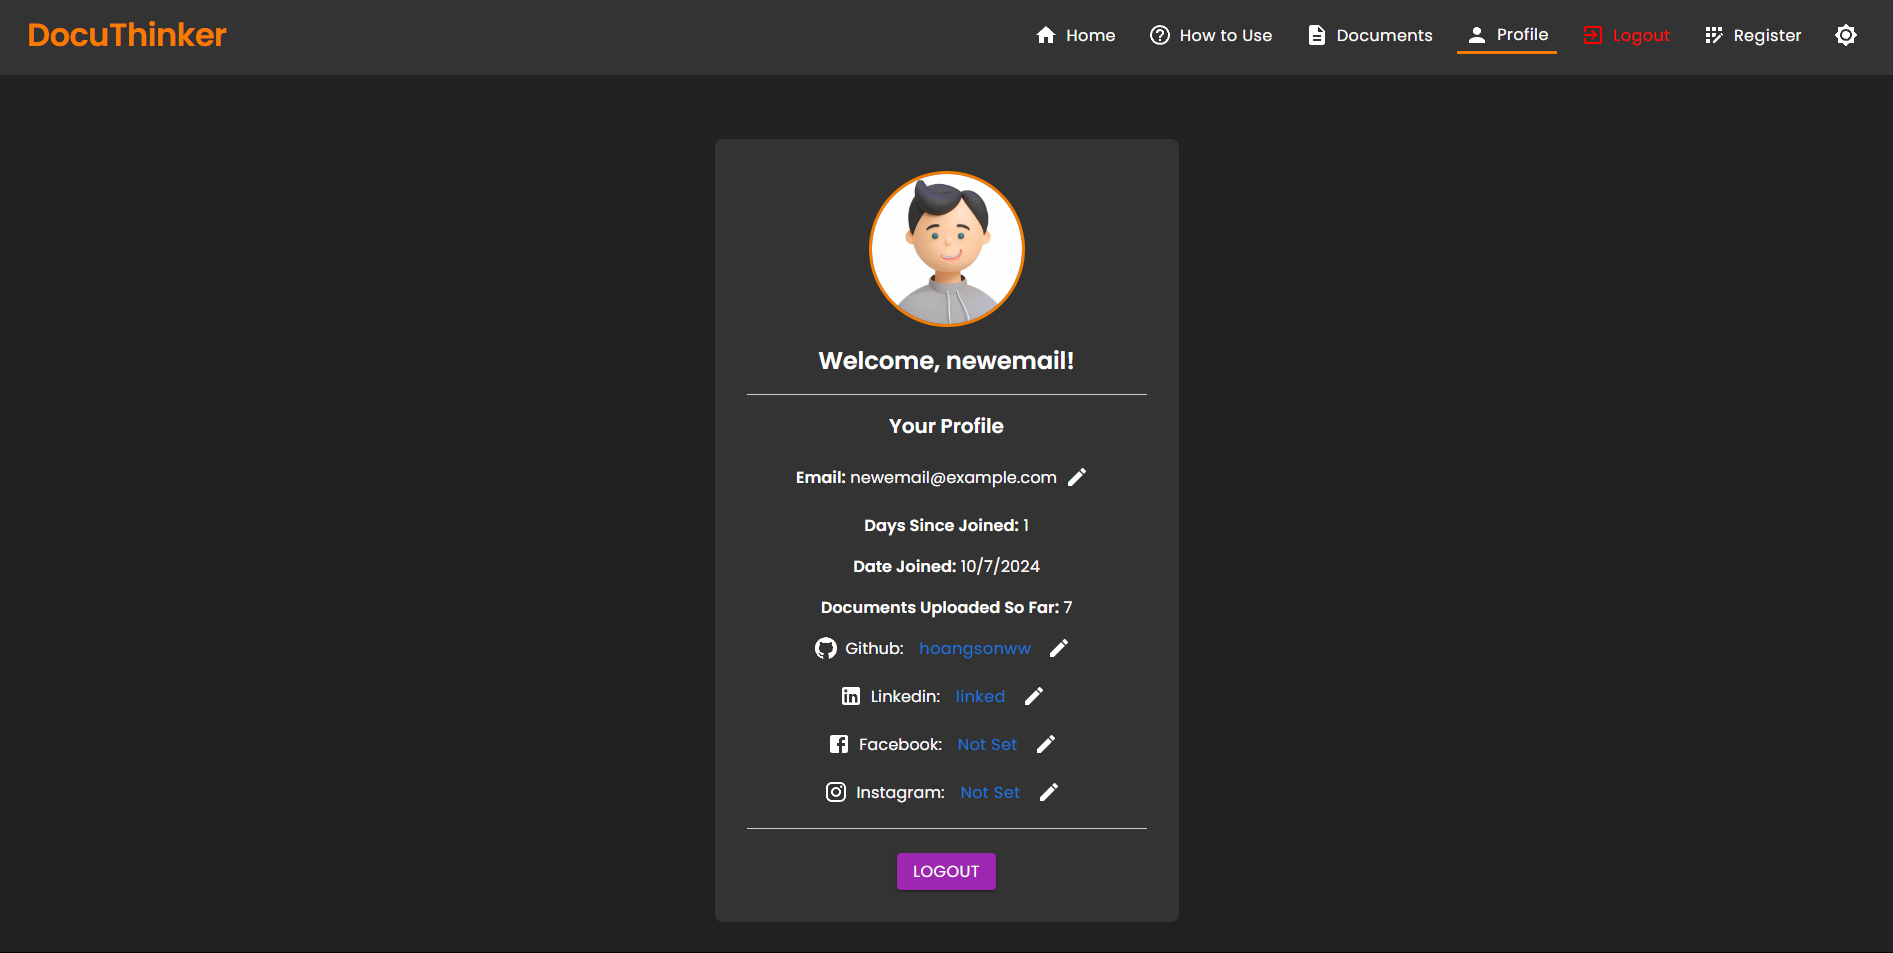
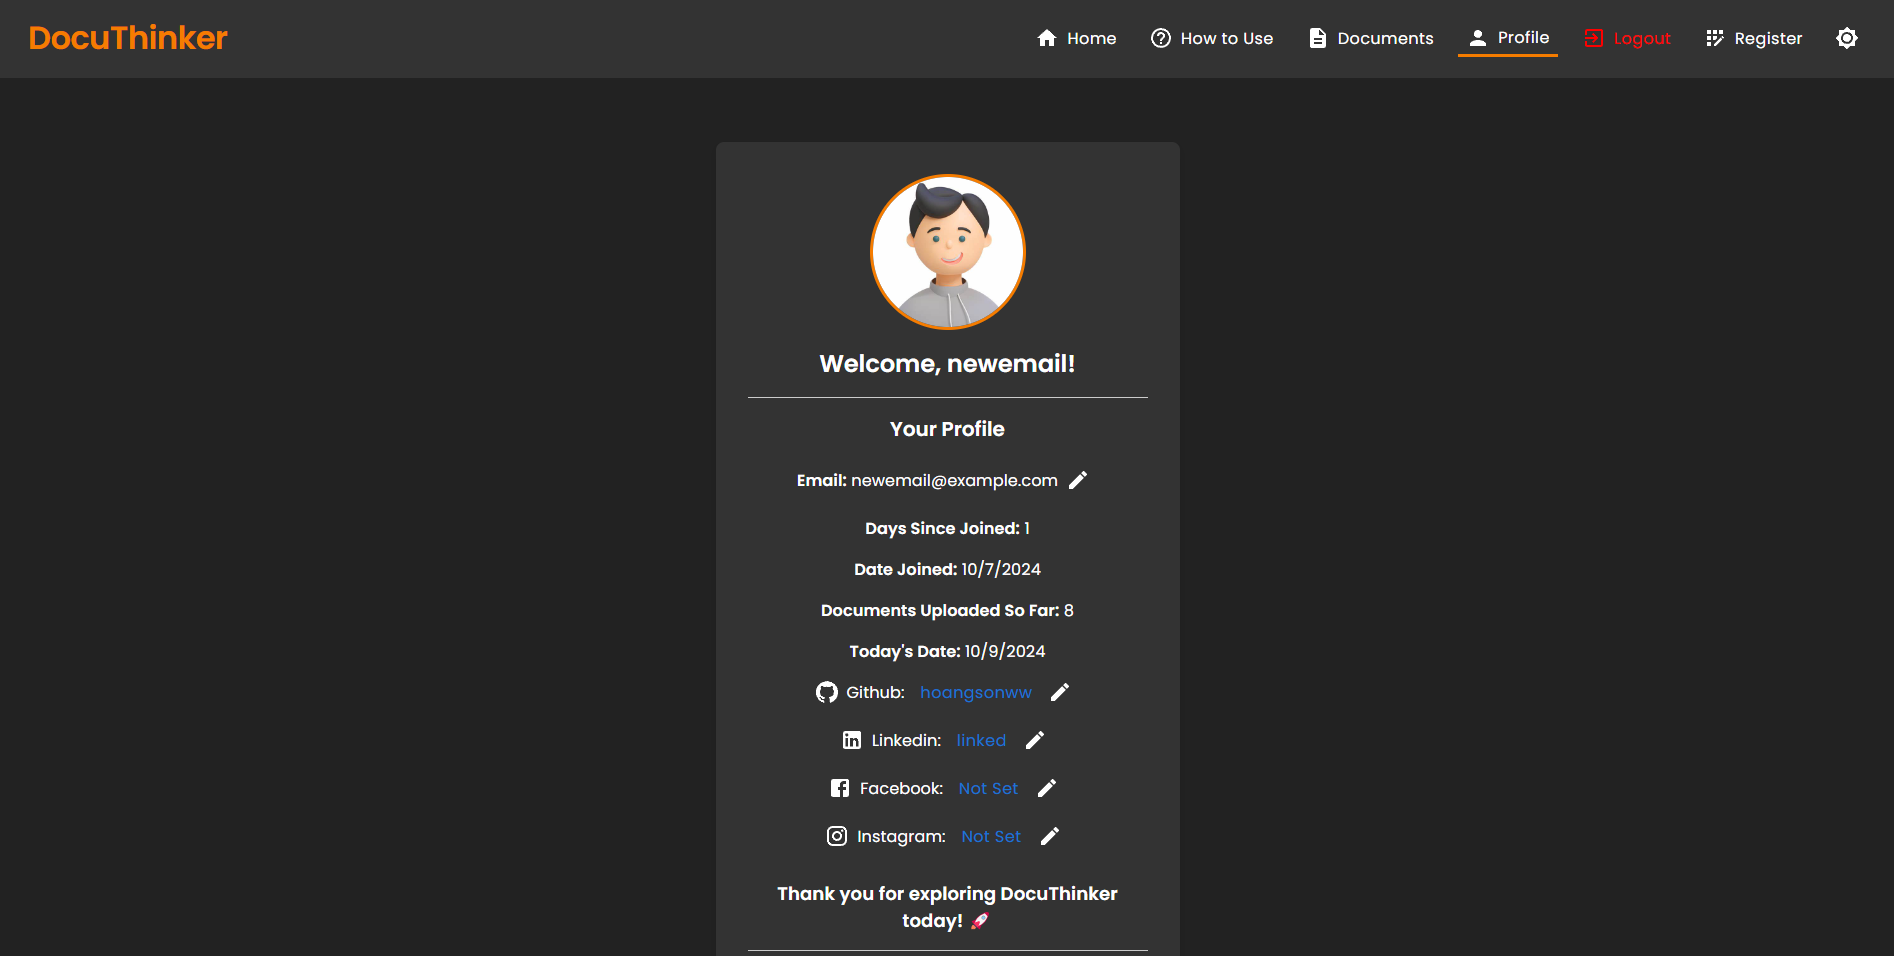
Final: App Working & React FE Done

diff --git a/frontend/src/pages/HowToUse.js b/frontend/src/pages/HowToUse.js
@@ -40,7 +40,8 @@ const HowToUse = ({ theme }) => {
               lineHeight: '1.6',
             }}
         >
-          Welcome to <strong>DocuThinker</strong>, your AI-powered document summarization tool. Follow the steps below to
+          Welcome to <strong>DocuThinker</strong>, your AI-powered document summarization tool. Follow the steps below
+          to
           upload documents and make the most out of our key features like summarization, generating key ideas, and
           discussion points from your uploaded documents.
         </Typography>
@@ -59,7 +60,7 @@ const HowToUse = ({ theme }) => {
           Steps to Get Started
         </Typography>
 
-        <List sx={{ listStyleType: 'none', paddingLeft: 0 }}>
+        <List sx={{listStyleType: 'none', paddingLeft: 0}}>
           <ListItem>
             <ListItemText
                 disableTypography
@@ -83,7 +84,8 @@ const HowToUse = ({ theme }) => {
                         color: theme === 'dark' ? 'white' : '#333',
                       }}
                   >
-                    Click the upload box on the home page to drag and drop your document or select one from your device. We
+                    Click the upload box on the home page to drag and drop your document or select one from your device.
+                    We
                     support both PDF and DOCX formats.
                   </Typography>
                 }
@@ -113,7 +115,8 @@ const HowToUse = ({ theme }) => {
                         color: theme === 'dark' ? 'white' : '#333',
                       }}
                   >
-                    Once uploaded, the app will automatically summarize your document. You'll see the full original document
+                    Once uploaded, the app will automatically summarize your document. You'll see the full original
+                    document
                     text on the left and a concise summary on the right.
                   </Typography>
                 }
@@ -203,8 +206,42 @@ const HowToUse = ({ theme }) => {
                         color: theme === 'dark' ? 'white' : '#333',
                       }}
                   >
-                    Use the 'Chat with AI' feature to ask specific questions or get more information based on the document.
+                    Use the 'Chat with AI' feature to ask specific questions or get more information based on the
+                    document.
                     Our AI models, trained by DocuThinker, will use the document context to provide tailored answers.
+                  </Typography>
+                }
+            />
+          </ListItem>
+
+          <ListItem>
+            <ListItemText
+                disableTypography
+                primary={
+                  <Typography
+                      sx={{
+                        fontFamily: 'Poppins, sans-serif',
+                        fontWeight: 'bold',
+                        fontSize: '1.1rem',
+                        color: theme === 'dark' ? 'white' : 'black',
+                      }}
+                  >
+                    6. Create an Account to Save Uploaded Documents
+                  </Typography>
+                }
+                secondary={
+                  <Typography
+                      sx={{
+                        fontFamily: 'Poppins, sans-serif',
+                        fontSize: '1rem',
+                        color: theme === 'dark' ? 'white' : '#333',
+                      }}
+                  >
+                    You can also create an account to save your uploaded documents and access them later. This feature
+                    allows
+                    you to view, download, or delete your documents as needed and gives you a higher upload limit.
+                    Visit the <strong>Register</strong> page to create an account and then log in to access your saved
+                    documents.
                   </Typography>
                 }
             />
@@ -236,7 +273,7 @@ const HowToUse = ({ theme }) => {
             }}
         >
           DocuThinker currently supports:
-          <ul style={{ paddingLeft: '20px', marginTop: '8px', font: 'inherit' }}>
+          <ul style={{paddingLeft: '20px', marginTop: '8px', font: 'inherit'}}>
             <li>PDF files</li>
             <li>DOCX (Word) files</li>
           </ul>
@@ -254,8 +291,16 @@ const HowToUse = ({ theme }) => {
             }}
         >
           DocuThinker helps you save time by summarizing long documents, extracting key ideas, and preparing discussion
-          points for further exploration. Make sure to utilize the AI chat feature to dive deeper into any aspect of your
+          points for further exploration. Make sure to utilize the AI chat feature to dive deeper into any aspect of
+          your
           document!
+        </Typography>
+
+        <div style={{borderBottom: '1px solid #ccc', width: '100%', marginBottom: '1rem', marginTop: '1rem' }}></div>
+
+        {/* Thank you message */}
+        <Typography sx={{ mt: 3, font: 'inherit', fontWeight: 'bold', fontSize: '18px' }}>
+          Thank you for exploring DocuThinker today! 🚀
         </Typography>
       </Box>
   );

diff --git a/frontend/src/pages/Profile.js b/frontend/src/pages/Profile.js
@@ -32,6 +32,8 @@ const Profile = ({ theme }) => {
   const avatarUrl = '/OIP.jpg';
   const today = new Date().toLocaleDateString();
 
+  console.log(updatingSocialMedia);
+
   useEffect(() => {
     if (userId) {
       const fetchData = async () => {
@@ -263,7 +265,10 @@ const Profile = ({ theme }) => {
           <Typography sx={{ mb: 2, font: 'inherit', textAlign: 'center' }}><strong>Date Joined:</strong> {joinedDate}</Typography>
 
           {/* Display Document Count */}
-          <Typography sx={{ mb: 1, font: 'inherit', textAlign: 'center' }}><strong>Documents Uploaded So Far:</strong> {documentCount}</Typography>
+          <Typography sx={{ mb: 2, font: 'inherit', textAlign: 'center' }}><strong>Documents Uploaded So Far:</strong> {documentCount}</Typography>
+
+          {/* Display Today's Date */}
+          <Typography sx={{ mb: 1, font: 'inherit' }}><strong>Today's Date:</strong> {today}</Typography>
 
           {/* Social Media Fields */}
           {['github', 'linkedin', 'facebook', 'instagram'].map((platform) => (
@@ -299,6 +304,11 @@ const Profile = ({ theme }) => {
                 </IconButton>
               </Box>
           ))}
+
+          {/* Thank you message */}
+          <Typography sx={{ mt: 3, font: 'inherit', fontWeight: 'bold', fontSize: '18px' }}>
+            Thank you for exploring DocuThinker today! 🚀
+          </Typography>
 
           <div style={{ borderBottom: '1px solid #ccc', marginTop: '16px' }}></div>
 

diff --git a/README.md b/README.md
@@ -279,6 +279,8 @@ It is currently deployed live on **Vercel** and **Render**. You can access the l
 
 <h2 id="complete-file-structure">📂 Complete File Structure</h2>
 
+The **DocuThinker** app is organized into separate subdirectories for the frontend, backend, and mobile app. Each directory contains the necessary files and folders for the respective components of the app. Here is the complete file structure of the app:
+
 ```
 DocuThinker-AI-App/
 ├── backend/
